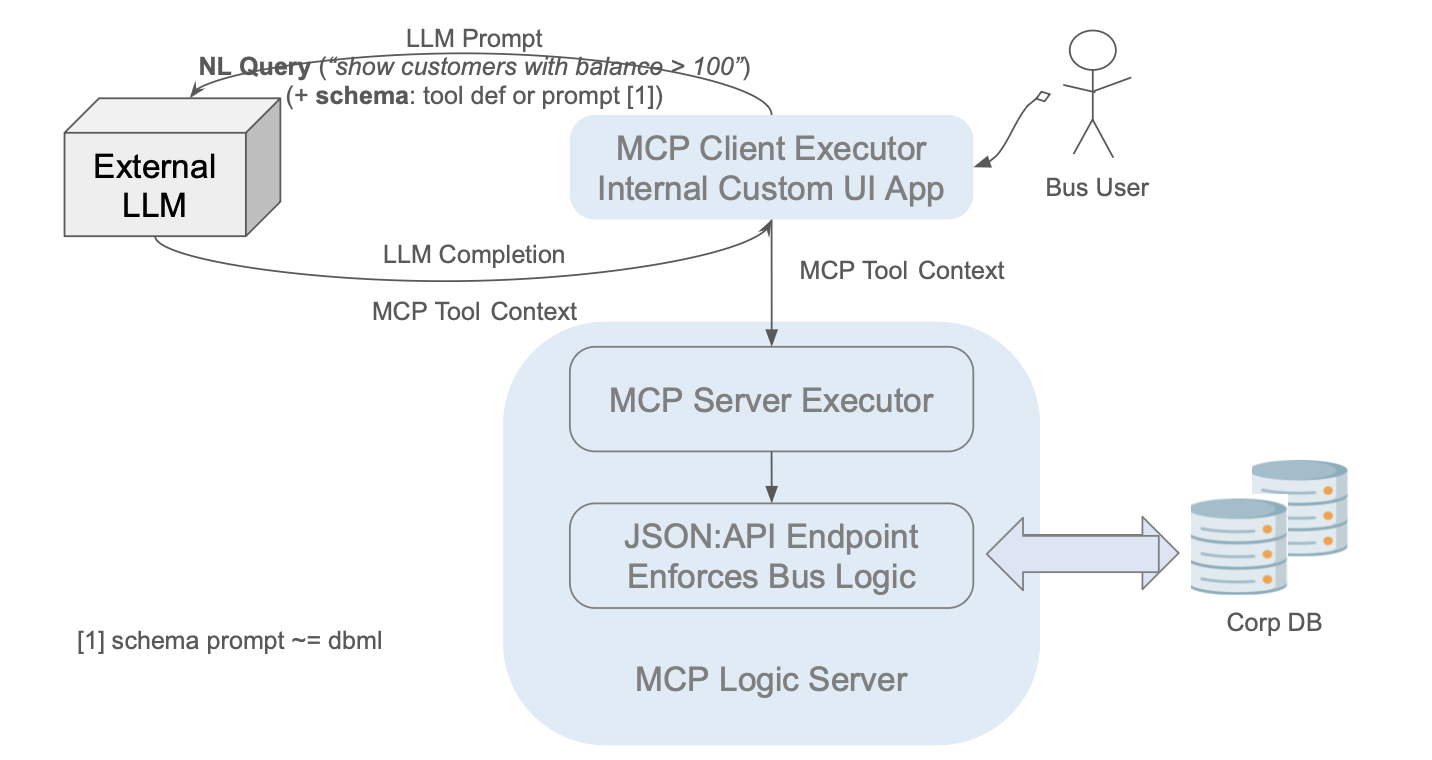
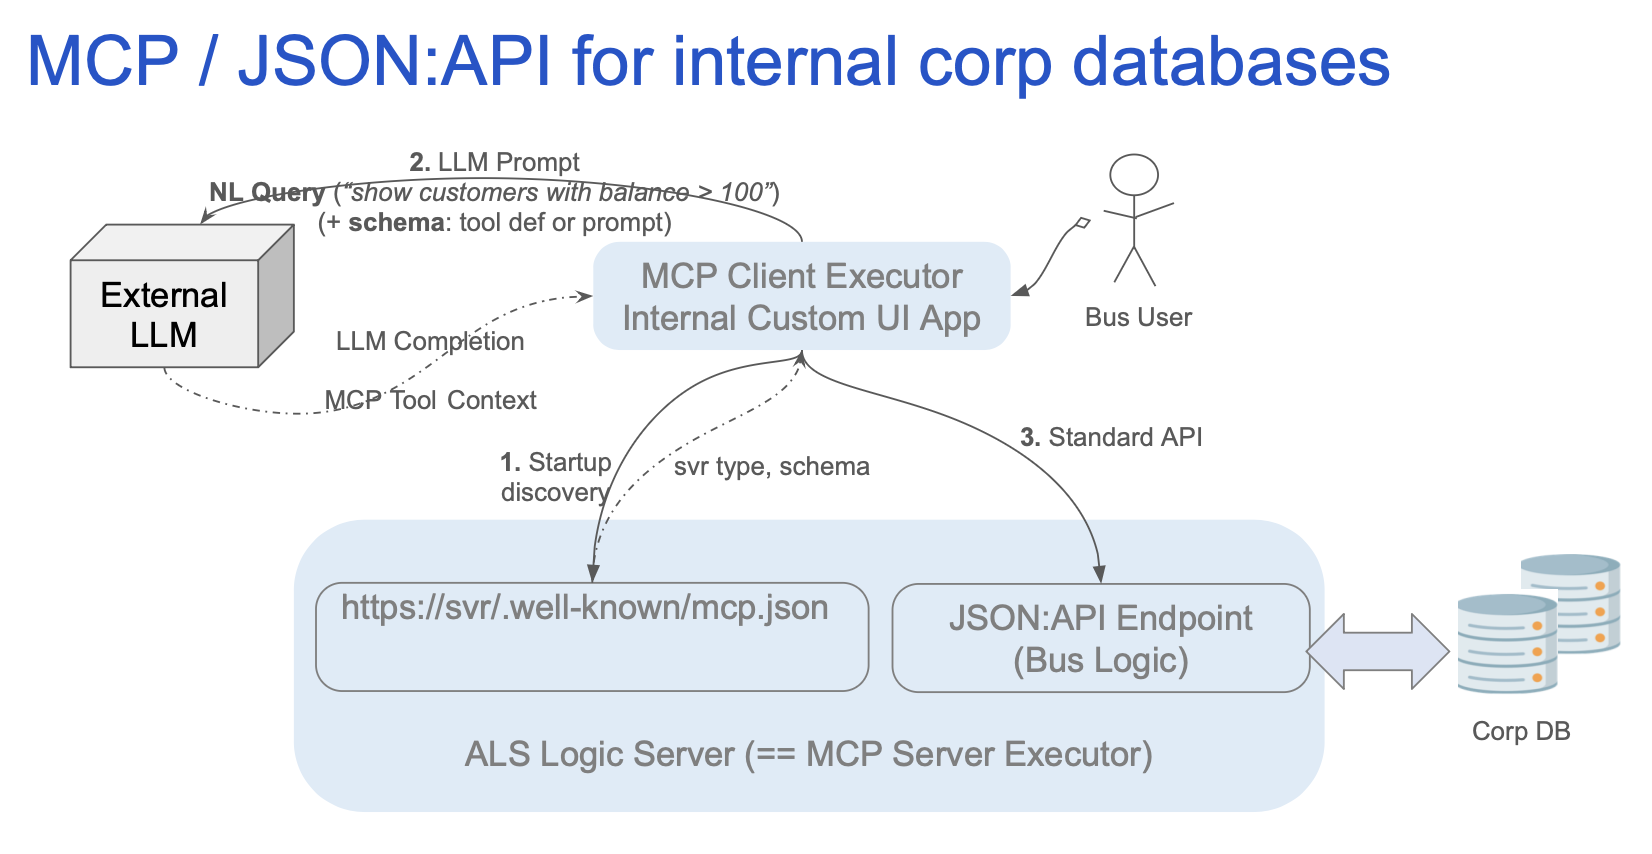
mcp orchestration

diff --git a/docs/Integration-MCP.md b/docs/Integration-MCP.md
@@ -69,26 +69,56 @@ You will need a ChatGPT APIKey.
 
 ![Intro diagram](https://github.com/ApiLogicServer/Docs/blob/main/docs/images/integration/mcp/MCP_Arch.png?raw=true)  
 
-1. Bus User enters a natural language query in the internal UI.
+1. MCP Client Executor Startup
 
-	* This might be similar to installed/Web ChatGPT (etc), but those *cannot* be used to access MCPs since they cannot issue http calls.  This is an internally developed app (or, perhaps an IDE tool)
-	* We are using a test version: `integration/mcp/mcp_client_executor.py`
+	* Calls *wellknown* endpoint to load schema
+	* This schema is similar to `docs/db.dbml` (already created by als)
 
-2. MCP Client Executor sends the query + schema (as prompt or tool definition) to the external LLM, here, ChatGPT (requires API Key).
+2. MCP Client Executor sends Bus User ***NL query + schema*** (as prompt or tool definition) to the external LLM, here, ChatGPT (requires API Key).  LLM returns an ***MCP Tool Context*** JSON block.
 
-	* Tool definitions are OpenAI specific, so we are sending the schema in each prompt.  
+	* An MCP Client Executor might be similar in concept to installed/Web ChatGPT (etc), but those *cannot* be used to access MCPs since they cannot issue http calls.  This is an internally developed app (or, perhaps an IDE tool)
+
+		* We are using a test version: `integration/mcp/mcp_client_executor.py`
+	* Tool definitions are OpenAI specific, so we are sending the schema (in each prompt)
+
+		* Note this strongly suggests this is a **subset** of your database.  
 	* This schema is derived from `docs/db.dbml` (already created by als)
-	* Note this strongly suggests this is a **subset** of your database. 
+ 
 
-3. LLM returns an MCP Tool Context JSON block.
+4. MCP Client Executor iterates through the Tool Context, calling the JSON:API Endpoint that enforces business logic.
 
-4. MCP Client Executor sends the Tool Context to the MCP Server Executor, an endpoint in your als project
+Here is a typical `https://localhost:5656/.well-known/mcp.json` response (not yet implemented):
 
-	* See `api/api_discovery/mcp_server_executor.py`
+```json
+{
+  "tool_type": "json-api",
+  "base_url": "https://crm.company.com",
+  "resources": [
+    {
+      "name": "Customer",
+      "path": "/Customer",
+      "methods": ["GET", "PATCH"],
+      "fields": ["id", "name", "balance", "credit_limit"],
+      "filterable": ["name", "credit_limit"],
+      "example": "List customers with credit over 5000"
+    }
+  ]
+}
+```
 
-5. MCP Server Executor calls the JSON:API Endpoint that enforces business logic.
+### Example
 
-6. JSON:API queries the Corp DB and returns the results.
+Here is a NL prompt using *basic_demo:*
+
+```
+List the orders created more than 30 days ago, and send a discount offer email to the customer for each one.
+
+Respond with a JSON array of tool context blocks using:
+- tool: 'json-api'
+- JSON:API-compliant filtering (e.g., filter[CreatedOn][lt])
+- Use {{ order.customer_id }} as a placeholder in the second step.
+- Include method, url, query_params or body, headers, expected_output.
+```
 
 %nbsp;
 
